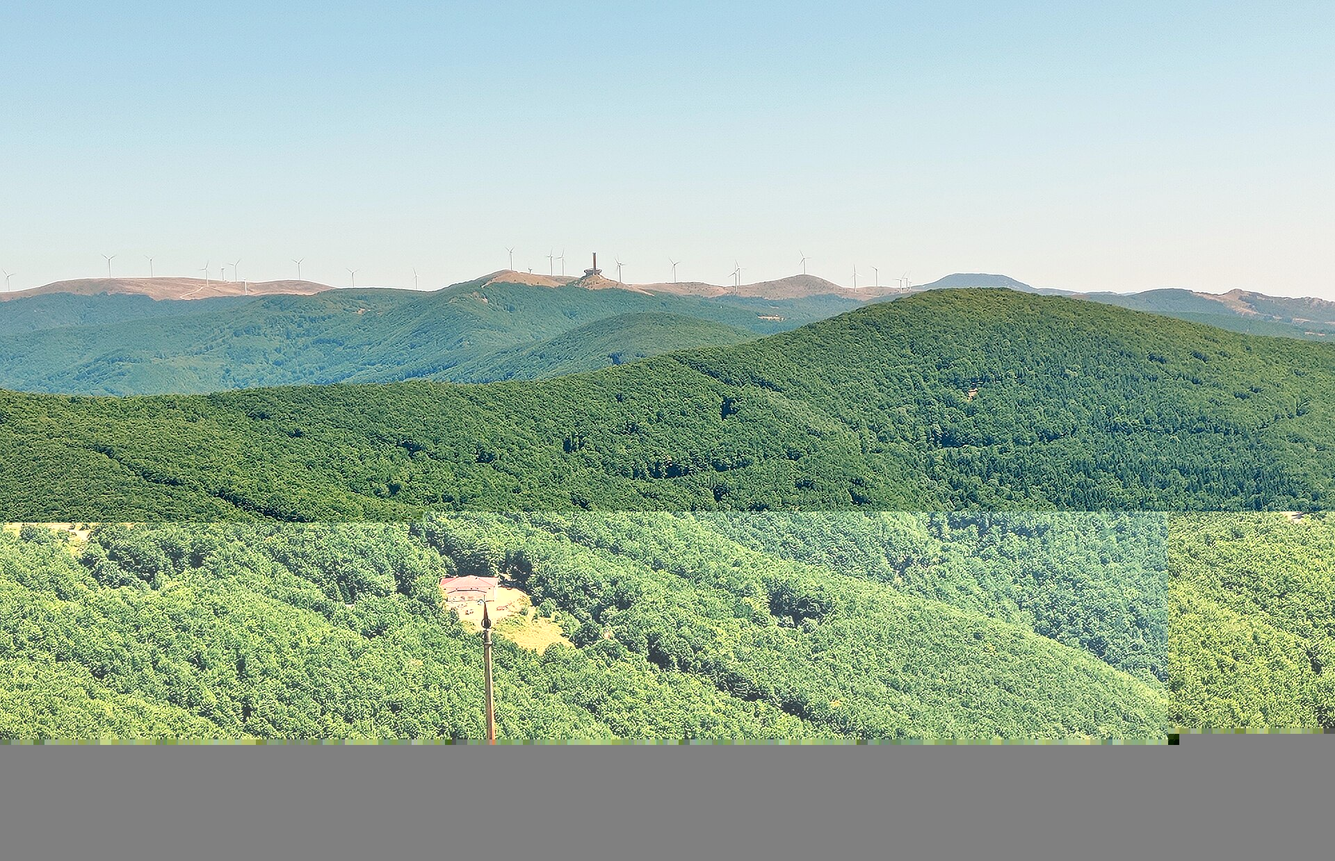
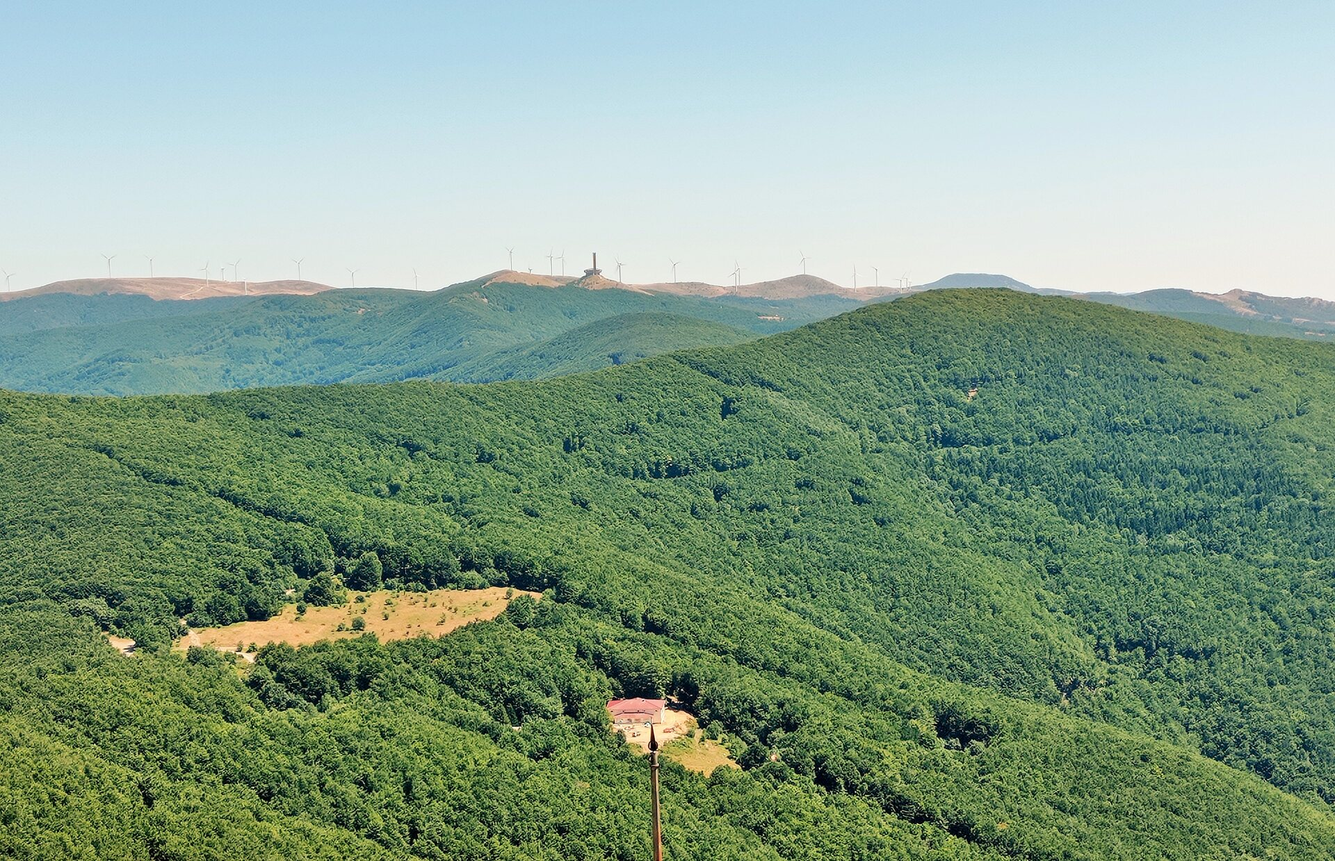
Optimise la navigation mobile et les images

diff --git a/app/globals.css b/app/globals.css
@@ -256,22 +256,29 @@ h1 em {
   border-bottom: 1px solid var(--line);
 }
 
-.chapter-detail-link {
-  position: absolute;
-  z-index: 1;
-  inset: 0;
-  cursor: pointer;
-}
-
-.chapter-detail-link:focus-visible {
-  outline: 2px solid var(--signal);
-  outline-offset: -12px;
-}
-
 .chapter-linked:hover .image-frame img {
   filter: saturate(0.95) contrast(1.01);
   transform: scale(1.012);
 }
+
+.chapter-detail-cta {
+  display: flex;
+  width: min(360px, 100%);
+  min-height: 48px;
+  align-items: center;
+  justify-content: space-between;
+  margin-top: 34px;
+  padding-bottom: 10px;
+  border-bottom: 2px solid var(--signal);
+  color: inherit;
+  font-size: 12px;
+  font-weight: 800;
+  letter-spacing: 0.12em;
+  text-decoration: none;
+  text-transform: uppercase;
+}
+
+.chapter-detail-cta:hover { color: var(--signal); }
 
 .chapter-dark {
   background: var(--background);
@@ -405,6 +412,32 @@ h1 em {
   background: #0b0c0b;
   color: var(--foreground);
 }
+
+.detail-header {
+  display: grid;
+  grid-template-columns: minmax(180px, 0.35fr) 1fr;
+  gap: 40px;
+  align-items: end;
+  padding: clamp(92px, 10vw, 150px) clamp(20px, 6vw, 96px) 20px;
+}
+
+.detail-header > a {
+  min-height: 44px;
+  font-size: 12px;
+  font-weight: 800;
+  letter-spacing: 0.1em;
+  text-decoration: none;
+  text-transform: uppercase;
+}
+
+.detail-header h1 {
+  max-width: 920px;
+  margin: 18px 0 0;
+  font-size: clamp(52px, 8vw, 128px);
+  line-height: 0.86;
+}
+
+.mobile-nav { display: none; }
 
 .detail-gallery {
   display: grid;
@@ -589,6 +622,54 @@ footer p {
     font-size: 0.75rem;
   }
 
+  .mobile-nav {
+    position: fixed;
+    z-index: 60;
+    top: max(58px, calc(env(safe-area-inset-top) + 48px));
+    right: 12px;
+    display: block;
+    width: min(290px, calc(100vw - 24px));
+    color: #111311;
+  }
+
+  .mobile-nav summary {
+    width: max-content;
+    min-height: 44px;
+    margin-left: auto;
+    padding: 14px 16px;
+    background: var(--signal);
+    cursor: pointer;
+    font-size: 0.75rem;
+    font-weight: 800;
+    letter-spacing: 0.08em;
+    list-style: none;
+    text-transform: uppercase;
+  }
+
+  .mobile-nav summary::-webkit-details-marker { display: none; }
+
+  .mobile-nav nav {
+    max-height: calc(100svh - 120px);
+    overflow-y: auto;
+    border: 1px solid rgba(238, 233, 223, 0.25);
+    background: #111311;
+    color: var(--foreground);
+  }
+
+  .mobile-nav nav a {
+    display: grid;
+    grid-template-columns: 34px 1fr;
+    min-height: 46px;
+    align-items: center;
+    padding: 8px 14px;
+    border-bottom: 1px solid rgba(238, 233, 223, 0.16);
+    font-size: 0.8rem;
+    text-decoration: none;
+  }
+
+  .mobile-nav nav a:last-child { border-bottom: 0; }
+  .mobile-nav nav a span { color: var(--signal); }
+
   h1 {
     margin-block: 18px 24px;
     font-size: clamp(4rem, 23vw, 6.5rem);
@@ -718,6 +799,16 @@ footer p {
   .detail-gallery {
     display: block;
     padding: 48px 18px;
+  }
+
+  .detail-header {
+    display: block;
+    padding: 92px 18px 16px;
+  }
+
+  .detail-header h1 {
+    margin-top: 28px;
+    font-size: clamp(3rem, 14vw, 4.8rem);
   }
 
   .detail-photo + .detail-photo {

diff --git a/app/page.tsx b/app/page.tsx
@@ -230,11 +230,27 @@ export default function Home() {
         ))}
       </nav>
 
+      <details className="mobile-nav">
+        <summary>Monuments · 01—12</summary>
+        <nav aria-label="Parcourir les structures sur mobile">
+          {structures.map((structure, index) => (
+            <a key={structure.id} href={`#${structure.id}`}>
+              <span>{String(index + 1).padStart(2, '0')}</span>
+              {structure.name}
+            </a>
+          ))}
+        </nav>
+      </details>
+
       <section id="top" className="hero">
         <img
           className="hero-image"
           src="/images/duga.jpg"
           alt="Les antennes métalliques du radar Duga surgissent derrière les arbres."
+          width="1920"
+          height="1280"
+          decoding="async"
+          fetchPriority="high"
         />
         <div className="hero-shade" />
         <div className="hero-copy">
@@ -288,12 +304,19 @@ export default function Home() {
                   {structure.place} · {structure.year}
                 </p>
                 <p className="body-copy">{structure.description}</p>
+                {structure.detailPath ? (
+                  <a className="chapter-detail-cta" href={structure.detailPath}>
+                    Voir les 5 photographies <span aria-hidden="true">→</span>
+                  </a>
+                ) : null}
               </div>
               <figure className="chapter-figure">
                 <div className="image-frame">
                   <img
                     src={structure.image}
                     alt={structure.alt}
+                    loading="lazy"
+                    decoding="async"
                     style={{ objectPosition: structure.position ?? 'center' }}
                   />
                   <span className="image-number" aria-hidden="true">
@@ -308,23 +331,16 @@ export default function Home() {
                 </figcaption>
               </figure>
             </div>
-            {structure.detailPath ? (
-              <a
-                className="chapter-detail-link"
-                href={structure.detailPath}
-                aria-label={`Ouvrir la galerie : ${structure.name}`}
-              />
-            ) : null}
           </section>
         );
       })}
 
       <section className="closing">
         <div className="closing-collage" aria-hidden="true">
-          <img src="/images/house-soviets.jpg" alt="" />
-          <img src="/images/dniprohes.jpg" alt="" />
-          <img src="/images/motherland.jpg" alt="" />
-          <img src="/images/druzhba.jpg" alt="" />
+          <img src="/images/house-soviets.jpg" alt="" loading="lazy" decoding="async" />
+          <img src="/images/dniprohes.jpg" alt="" loading="lazy" decoding="async" />
+          <img src="/images/motherland.jpg" alt="" loading="lazy" decoding="async" />
+          <img src="/images/druzhba.jpg" alt="" loading="lazy" decoding="async" />
         </div>
         <div className="closing-copy">
           <p className="eyebrow">Fin de la traversée</p>

diff --git a/app/structures/mere-patrie/page.tsx b/app/structures/mere-patrie/page.tsx
@@ -3,22 +3,32 @@ import type { Metadata } from 'next';
 const photos = [
   {
     src: '/images/mere-patrie/01.webp',
+    width: 1343,
+    height: 2048,
     alt: 'La statue de la Mère-Patrie photographiée en contre-plongée, épée dressée dans le ciel.',
   },
   {
     src: '/images/mere-patrie/02.webp',
+    width: 1800,
+    height: 1200,
     alt: 'La Mère-Patrie domine le kourgane Mamaïev sous un ciel clair.',
   },
   {
     src: '/images/mere-patrie/03.webp',
+    width: 799,
+    height: 534,
     alt: 'Vue rapprochée de la statue monumentale de Volgograd.',
   },
   {
     src: '/images/mere-patrie/04.webp',
+    width: 960,
+    height: 920,
     alt: 'Vue historique du kourgane Mamaïev et de la statue de la Mère-Patrie.',
   },
   {
     src: '/images/mere-patrie/05.webp',
+    width: 1599,
+    height: 1041,
     alt: 'Vue panoramique de la Mère-Patrie et de l’église de Tous-les-Saints.',
   },
 ];
@@ -42,10 +52,25 @@ export const metadata: Metadata = {
 export default function MotherlandGallery() {
   return (
     <main className="detail-page">
+      <header className="detail-header">
+        <a href="/#mere-patrie">← Retour à l’archive</a>
+        <div>
+          <p className="eyebrow">Galerie · Volgograd</p>
+          <h1>La Mère-Patrie appelle&nbsp;!</h1>
+        </div>
+      </header>
       <section className="detail-gallery" aria-label="Galerie de la Mère-Patrie">
         {photos.map((photo, index) => (
           <figure className={`detail-photo detail-photo-${index + 1}`} key={photo.src}>
-            <img src={photo.src} alt={photo.alt} loading={index === 0 ? 'eager' : 'lazy'} />
+            <img
+              src={photo.src}
+              alt={photo.alt}
+              width={photo.width}
+              height={photo.height}
+              loading={index === 0 ? 'eager' : 'lazy'}
+              decoding="async"
+              fetchPriority={index === 0 ? 'high' : 'auto'}
+            />
           </figure>
         ))}
       </section>

diff --git a/app/layout.tsx b/app/layout.tsx
@@ -6,8 +6,12 @@ export const metadata: Metadata = {
   description:
     'Une archive visuelle des monuments, logements, usines et infrastructures du monde soviétique.',
   icons: {
-    icon: [{ url: '/motherland-favicon-v2.svg', type: 'image/svg+xml' }],
-    shortcut: '/motherland-favicon-v2.svg',
+    icon: [
+      { url: '/favicon.ico', sizes: 'any' },
+      { url: '/motherland-favicon-v2.svg', type: 'image/svg+xml' },
+    ],
+    shortcut: '/favicon.ico',
+    apple: [{ url: '/apple-touch-icon.png', sizes: '180x180', type: 'image/png' }],
   },
   openGraph: {
     title: 'Béton Rouge — Architectures soviétiques',
